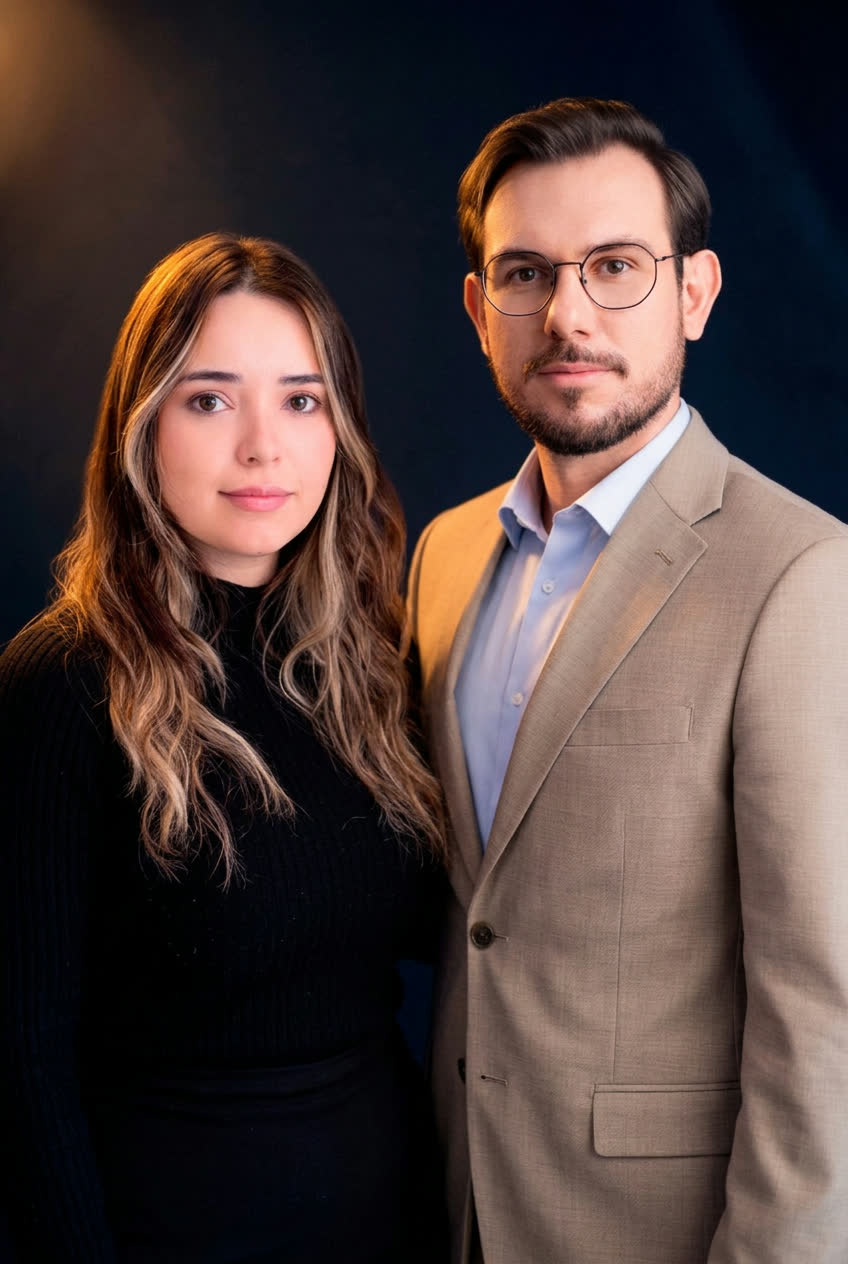
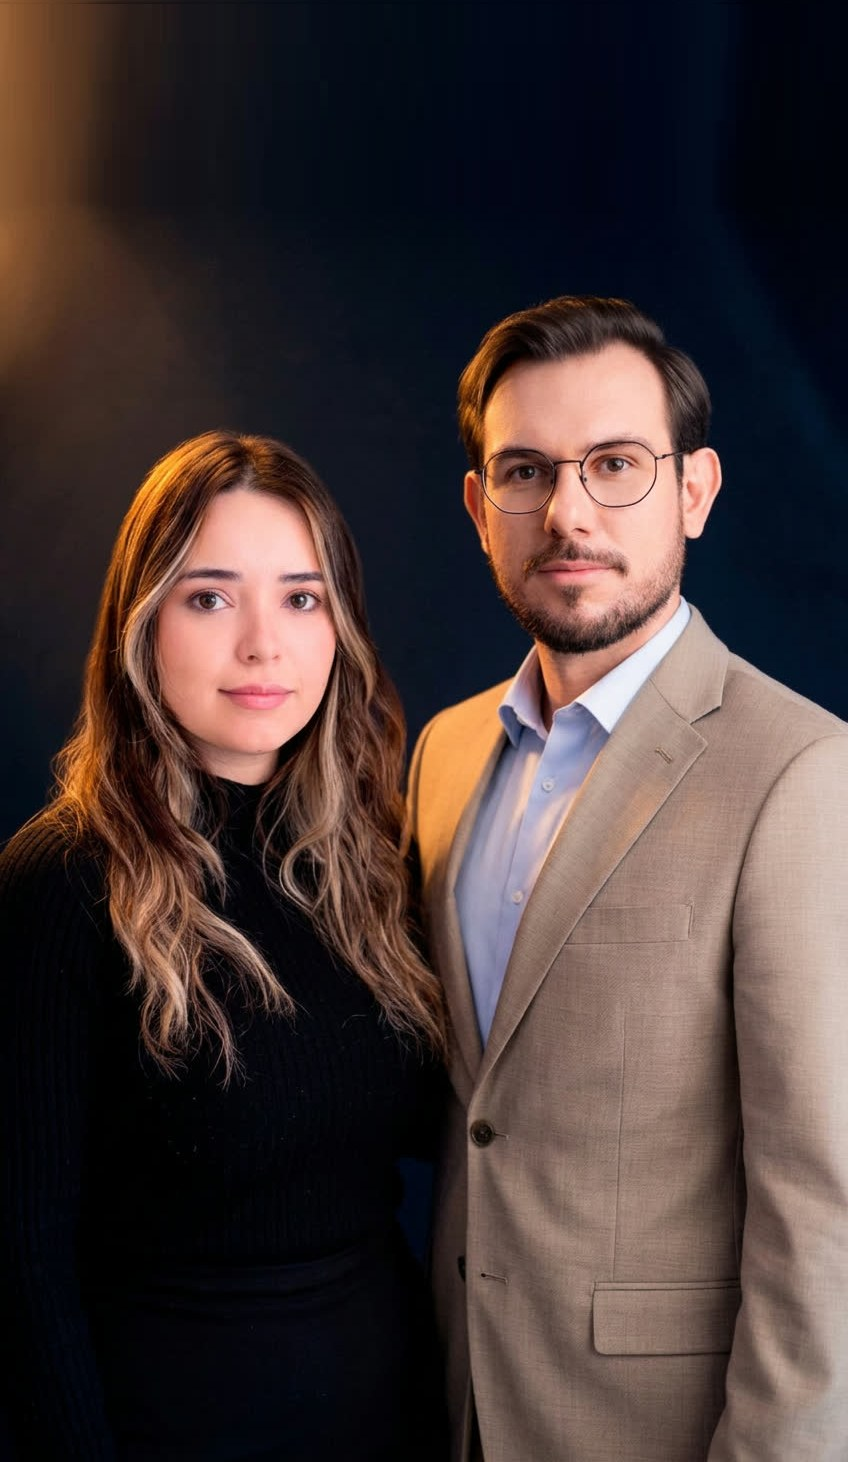
Ar acima da cabeca nos pilares, webnar no padrao da referencia, faixa revertida
Pilares, "ainda corta a parte de cima": nenhuma das seis fotos estava cortada, e
o CSS tambem nao cortava. Medindo a primeira linha em que a faixa central deixa
de ser fundo, a folga acima da cabeca ia de 6,2% (Alessandra) a 11,6%
(Gustavo). Num retrato de 404px na tela isso da 35px, e 35px de folga leem como
cabeca raspando a borda. object-position nao resolve, porque nao ha sobra para
deslocar, e aspect-ratio nao resolve, porque a folga em pixels continua igual.

A correcao cria folga de verdade: uma faixa nova no topo de cada arquivo,
preenchida com as primeiras linhas do proprio fundo, espelhadas. O fundo e
escuro e liso, entao a emenda nao aparece. Folga agora entre 20% e 23% nas seis.
Estender o topo muda a proporcao de cada foto, entao todas foram normalizadas em
0,58 cortando a BASE, nunca o topo, e a moldura passou de 2/3 para 29/50. Corte
medido: 0px nas seis, contra 88px antes de tudo isso. Originais em _anteriores/.

Webnar: refeito no padrao da referencia que o Gustavo mandou. Foto em cima
ocupando 34% da tela, degrade fechando a base, e so entao as informacoes, todas
centralizadas. O tracinho do eyebrow e o losango dos bullets somem no celular: a
primeira tentativa mirou ::before e ::marker e nao surtiu efeito nenhum, porque
sao <span aria-hidden> reais com estilo inline, e com o texto centralizado eles
ficavam orfaos a esquerda.

Quem conduz: a faixa horizontal foi REVERTIDA a pedido do Gustavo ("ficou
[…]

diff --git a/site/webnar/index.html b/site/webnar/index.html
@@ -62,38 +62,71 @@
     min-height: 0 !important;
     padding: 0 0 clamp(30px, 5vh, 46px) !important;
   }
-  /* O pedido foi: "coloque os textos bem quando comeca o degrade". Medido, os
-     textos comecavam em 308px e o degrade em 127px, ou seja 181px depois, ja
-     quase no fim da foto: a faixa escura ficava vazia e tudo era empurrado
-     para baixo, deixando o hero com 1179px, 1,4 tela. A foto encolhe para
-     36svh (era 42) e o conteudo sobe para dentro do degrade. A area limpa
-     que sobra cobre os tres rostos, que ocupam o terco de cima do arquivo.
+  /* Layout do hero conforme a referencia que o Gustavo mandou em 17/08 (a
+     landing do Dr. Thiago Salerno): FOTO em cima ocupando cerca de um terco da
+     tela, o degrade fechando a base dela, e SO DEPOIS as informacoes, todas
+     centralizadas, sem nada sobrepondo os rostos.
 
-     O ponto de pouso e onde o degrade JA ESCURECEU, nao onde ele comeca. A
-     primeira tentativa subiu o texto ate 127px, o inicio literal do degrade, e
-     o logo caiu em cima dos rostos, ilegivel. O gradiente atinge 90% de
-     opacidade em 52% da propria altura, o que da ~214px numa foto de 304px: e
-     ali que o texto pousa. */
+     As duas tentativas anteriores erraram o ponto de pouso em direcoes
+     opostas: a primeira deixou os textos a 308px numa foto de 354px, com a
+     faixa escura vazia e o hero em 1,40 tela; a segunda subiu ate 127px, o
+     inicio literal do degrade, e jogou o logo em cima dos rostos. Aqui o
+     conteudo comeca no fim do degrade, que e o que a referencia mostra, e a
+     unica sobreposicao e a de 16px que costura a foto ao texto. */
   .group-hero > [data-hero-foto] {
     position: relative !important;
     z-index: 0 !important;
     display: block;
-    height: 36svh;
-    min-height: 240px;
+    height: 34svh;
+    min-height: 230px;
+    max-height: 320px;
   }
   .group-hero > [data-hero-foto]::after {
     content: "";
     position: absolute;
     inset: auto 0 0 0;
-    height: 62%;
-    background: linear-gradient(180deg, rgba(5,7,10,0), rgba(5,7,10,.9) 52%, #05070A 100%);
+    height: 58%;
+    background: linear-gradient(180deg, rgba(5,7,10,0), rgba(5,7,10,.92) 58%, #05070A 100%);
   }
   .group-hero__content {
     position: relative;
     z-index: 2;
-    margin-top: max(-10.5svh, -96px);
-    padding-inline: 22px;
-    gap: 12px !important;
+    margin-top: -16px;
+    padding-inline: 24px;
+    gap: 14px !important;
+    text-align: center;
+    align-items: center;
+  }
+  /* a referencia centraliza tudo, inclusive a lista de bullets e o tracinho
+     do eyebrow, que por padrao ficam alinhados a esquerda */
+  .group-hero__content > *,
+  .group-hero__content ul,
+  .group-hero__content li {
+    margin-inline: auto;
+    text-align: center;
+  }
+  .group-hero__content li {
+    padding-left: 0;
+    max-width: 34ch;
+  }
+  /* o tracinho do eyebrow e o losango dos bullets sao <span aria-hidden> reais
+     no HTML, com estilo inline, nao pseudo-elementos: por isso a primeira
+     tentativa, que mirava ::before e ::marker, nao surtiu efeito nenhum.
+     Com o texto centralizado eles ficam soltos a esquerda, longe da frase que
+     marcam. Somem no celular; no desktop continuam. */
+  .group-hero__content p > span[aria-hidden="true"],
+  .group-hero__content li > span[aria-hidden="true"] {
+    display: none !important;
+  }
+  .group-hero__content ul {
+    list-style: none;
+    padding-left: 0;
+  }
+  .group-hero__content li {
+    justify-content: center;
+  }
+  .group-hero__content p:has(> span[aria-hidden="true"]) {
+    justify-content: center;
   }
 }
 /* <<< hero-mobile-webnar */

diff --git a/site/site-layout.css b/site/site-layout.css
@@ -818,8 +818,8 @@ html.js:not(.motion-ready) .fcard li {
     max-width: 300px;
     margin-inline: auto;
     height: auto;
-    aspect-ratio: 2 / 3;
-    max-height: 48svh;
+    aspect-ratio: 29 / 50;
+    max-height: 58svh;
   }
   .pro__moldura img {
     width: 100%;
@@ -916,63 +916,19 @@ html.js:not(.motion-ready) .fcard li {
 
 /* >>> mobile-rodada3 (gerado, nao editar a mao) */
 @media (max-width: 899px) {
-
-  /* --- ESCADA FORA DO CELULAR -------------------------------------------
-     Decisao do Gustavo em 17/08: a dobra sai do mobile e continua no desktop.
-     Duas tentativas de fazer a escada funcionar em 390px (recuo escalonado e
-     inversao da ordem) deixaram o desenho legivel, mas a figura precisa de
-     largura para ler como escada e no celular ela concorre com o texto.
-     Nada e apagado: e display:none dentro do @media, o desktop segue igual. */
+  /* A escada sai do celular por decisao do Gustavo em 17/08 e continua no
+     desktop: a figura precisa de largura para ler como escada, e em 390px ela
+     concorre com o texto. Nada e apagado, e display:none dentro do @media. */
   #esteira {
     display: none;
   }
 
-  /* --- QUEM CONDUZ: a foto vira imagem, nao papel de parede --------------
-     No desktop o retrato do Dr. Luciano e fundo com veu por cima, o que
-     funciona numa tela larga: o texto ocupa a esquerda e o rosto sobra a
-     direita. Em 390px o veu cobre a coluna inteira e a foto vira uma sombra
-     atras do texto, que foi o que o Gustavo viu.
-
-     No celular o mesmo div entra em fluxo como uma faixa no topo da dobra.
-     A caixa e 4/3, nao 16/9: o arquivo tem 1920x1080, exatamente 16/9, e numa
-     caixa de mesma proporcao o cover nao deixa NENHUMA sobra para deslocar,
-     entao background-position vira letra morta e a foto entra inteira, com o
-     Dr. Luciano pequeno no canto direito e metade do quadro em fundo azul
-     vazio. Foi exatamente o que a primeira tentativa produziu.
-
-     Com 4/3 a largura escalada vai a 520px numa caixa de 390, e os 130px de
-     sobra permitem empurrar o enquadramento para 76%, onde esta o rosto. */
-  #quem.quem {
-    display: block;
-    min-height: 0;
-    padding-top: 0;
-    /* o header e fixo com 61px: quem chega por ancora (o menu e o rodape
-       linkam /#quem) parava com a barra em cima do rosto. scroll-margin so age
-       na navegacao por ancora, entao nao cria vao na rolagem normal. */
+  /* O header e fixo com 61px e o menu e o rodape linkam /#quem: quem chegava
+     por ancora parava com a barra em cima do rosto do Dr. Luciano.
+     scroll-margin so age na navegacao por ancora, entao nao cria vao na
+     rolagem normal. */
+  #quem {
     scroll-margin-top: 76px;
   }
-  #quem .quem__bg {
-    position: relative;
-    z-index: 0;
-    inset: auto;
-    display: block;
-    width: 100%;
-    aspect-ratio: 4 / 3;
-    max-height: 46svh;
-    background-position: 76% center;
-    opacity: 1;
-    margin-bottom: clamp(22px, 3.4vh, 34px);
-    transform: none !important;
-  }
-  /* o veu e o grao existem para dar contraste ao texto sobre a foto; sem foto
-     atras do texto eles so escurecem a secao inteira sem funcao */
-  #quem .quem__veil,
-  #quem .quem__grain {
-    display: none;
-  }
-  #quem .env {
-    padding-inline: 22px;
-  }
-
 }
 /* <<< mobile-rodada3 */

diff --git a/site/index.html b/site/index.html
@@ -924,7 +924,7 @@ html.js .fcard.dentro li:nth-child(4){transition-delay:.40s}
 .posts__rodape{margin-top:40px}
 
 </style>
-<link rel="stylesheet" href="/site-layout.css?v=c813f99fda" />
+<link rel="stylesheet" href="/site-layout.css?v=17108df79d" />
 <!-- GA4 (Tracking 8D) -->
 <script>window.SITE_MARCA='medceo';window.dataLayer=window.dataLayer||[];function gtag(){dataLayer.push(arguments);}gtag('js',new Date());gtag('set',{site_marca:'medceo'});gtag('config','GT-PJWWKM65',{site_marca:'medceo'});</script>
 <script async src="https://www.googletagmanager.com/gtag/js?id=GT-PJWWKM65"></script>
